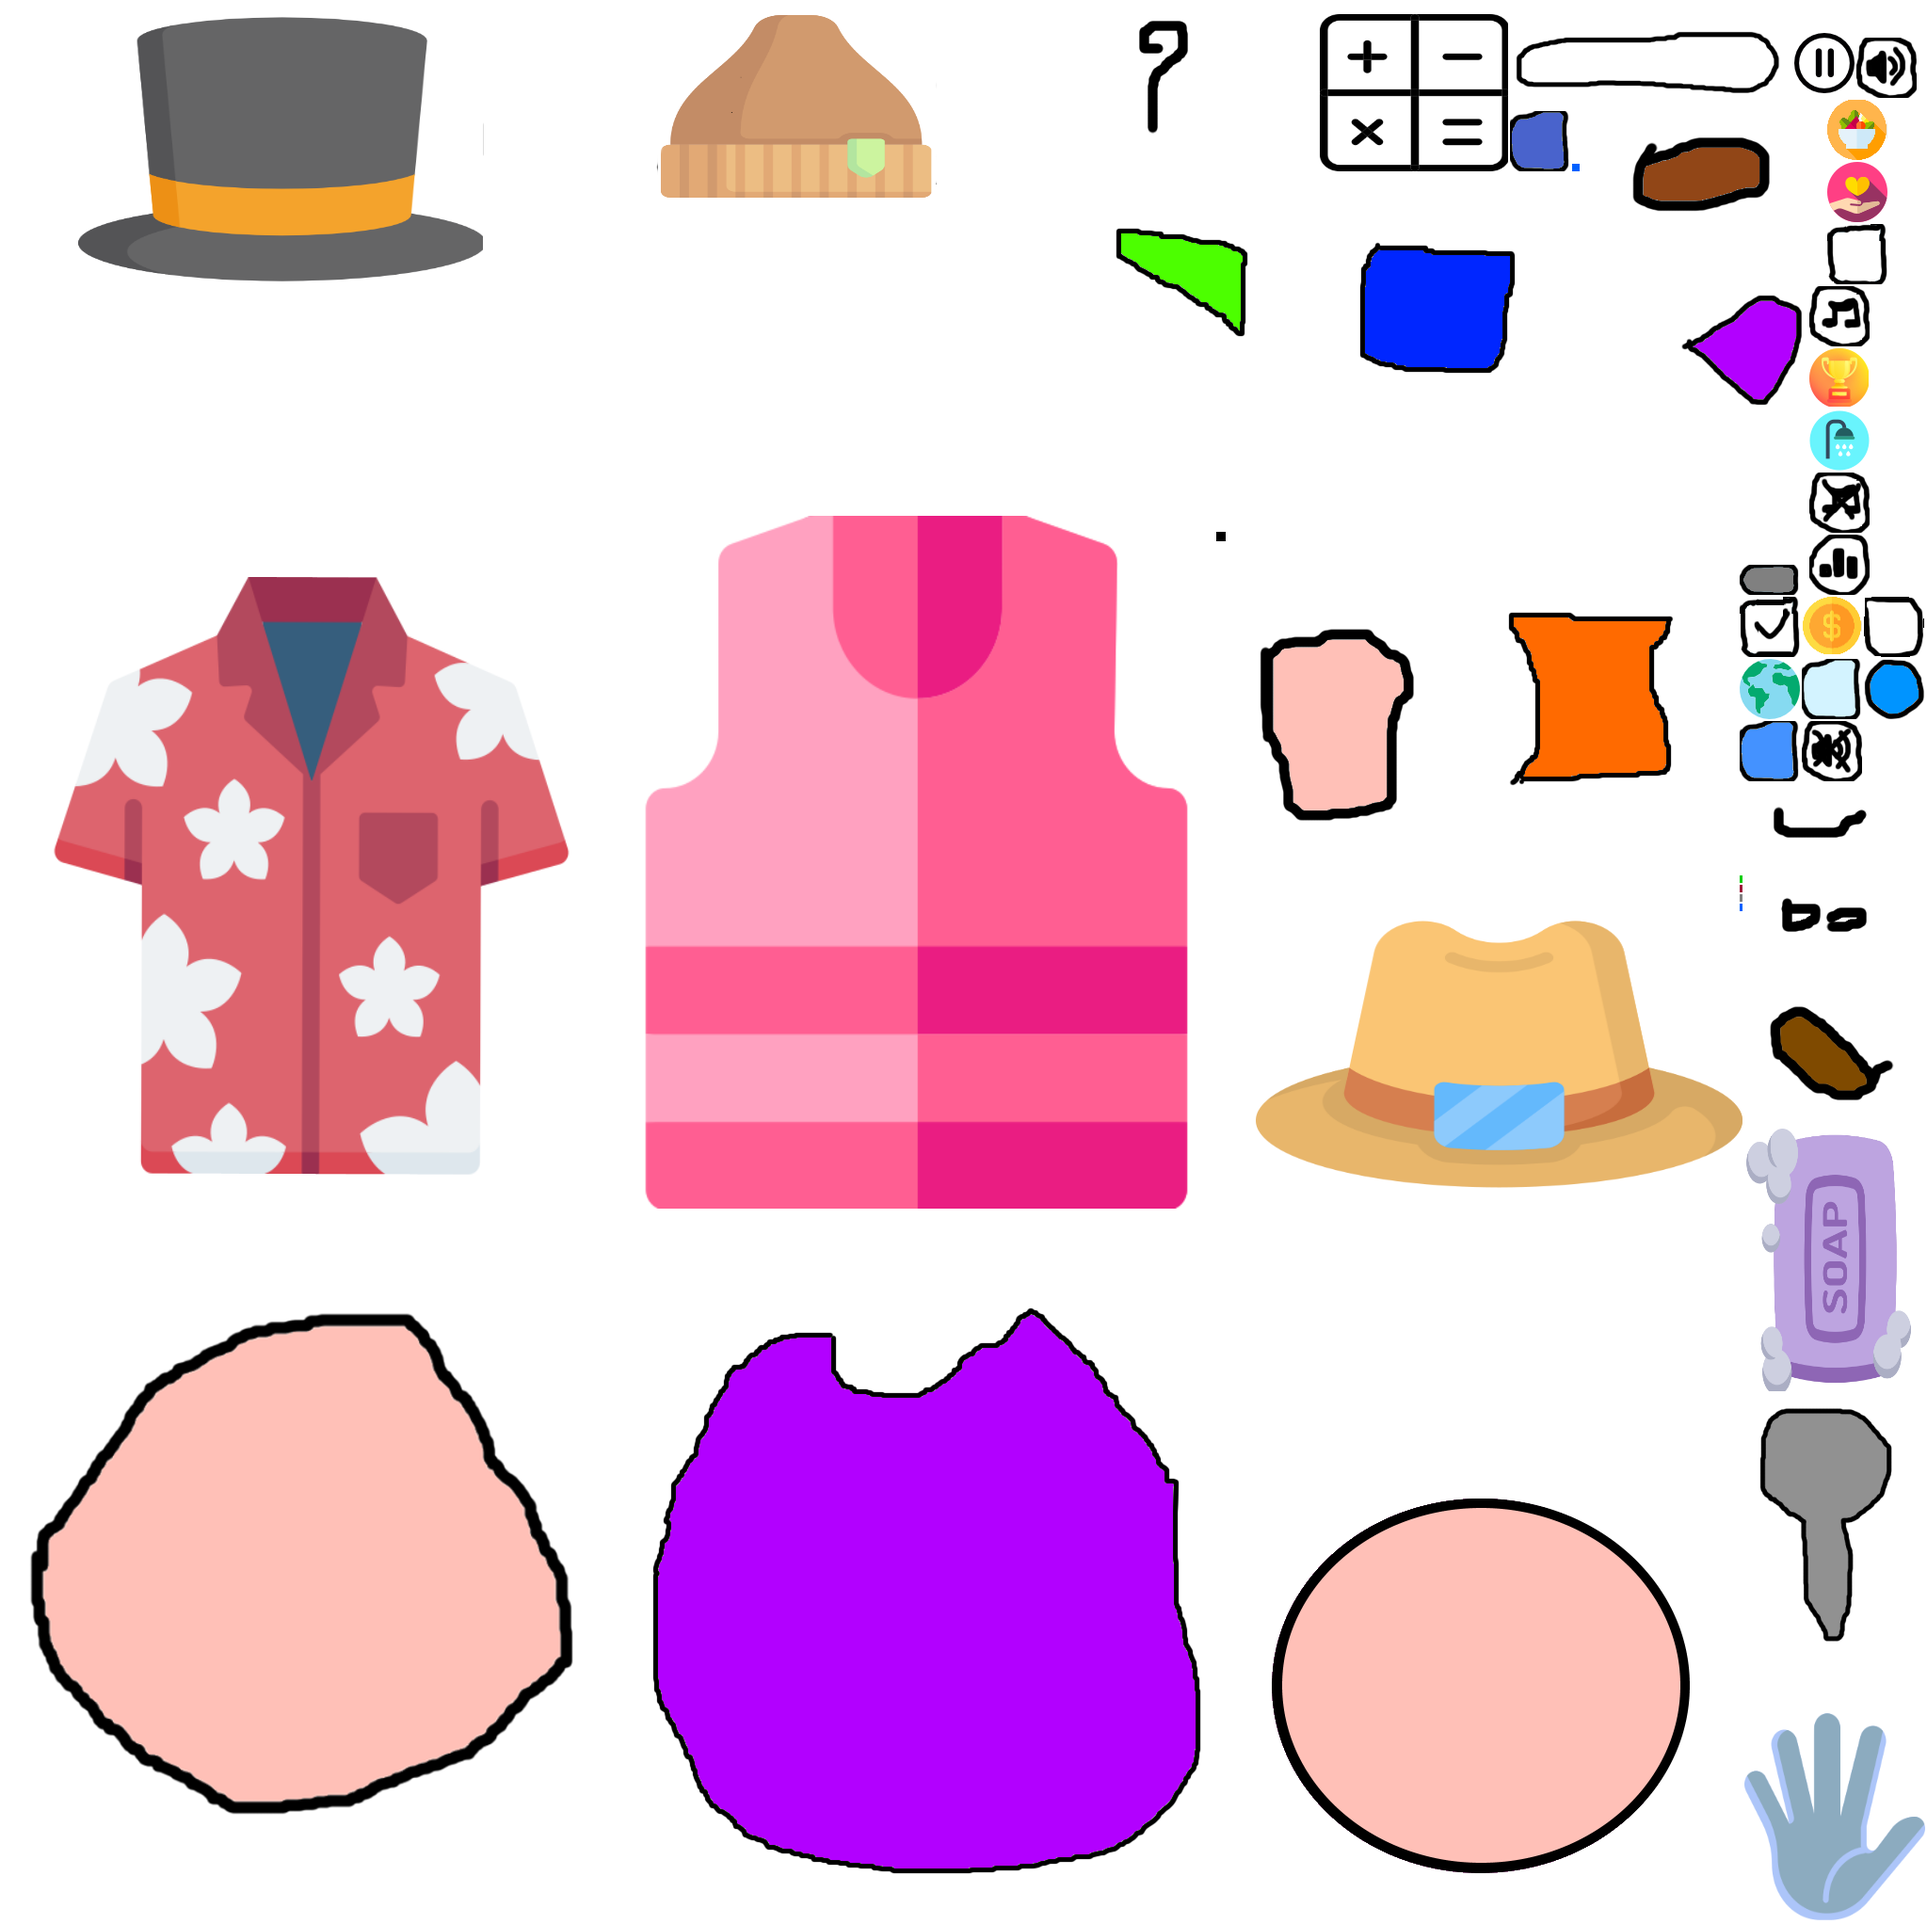
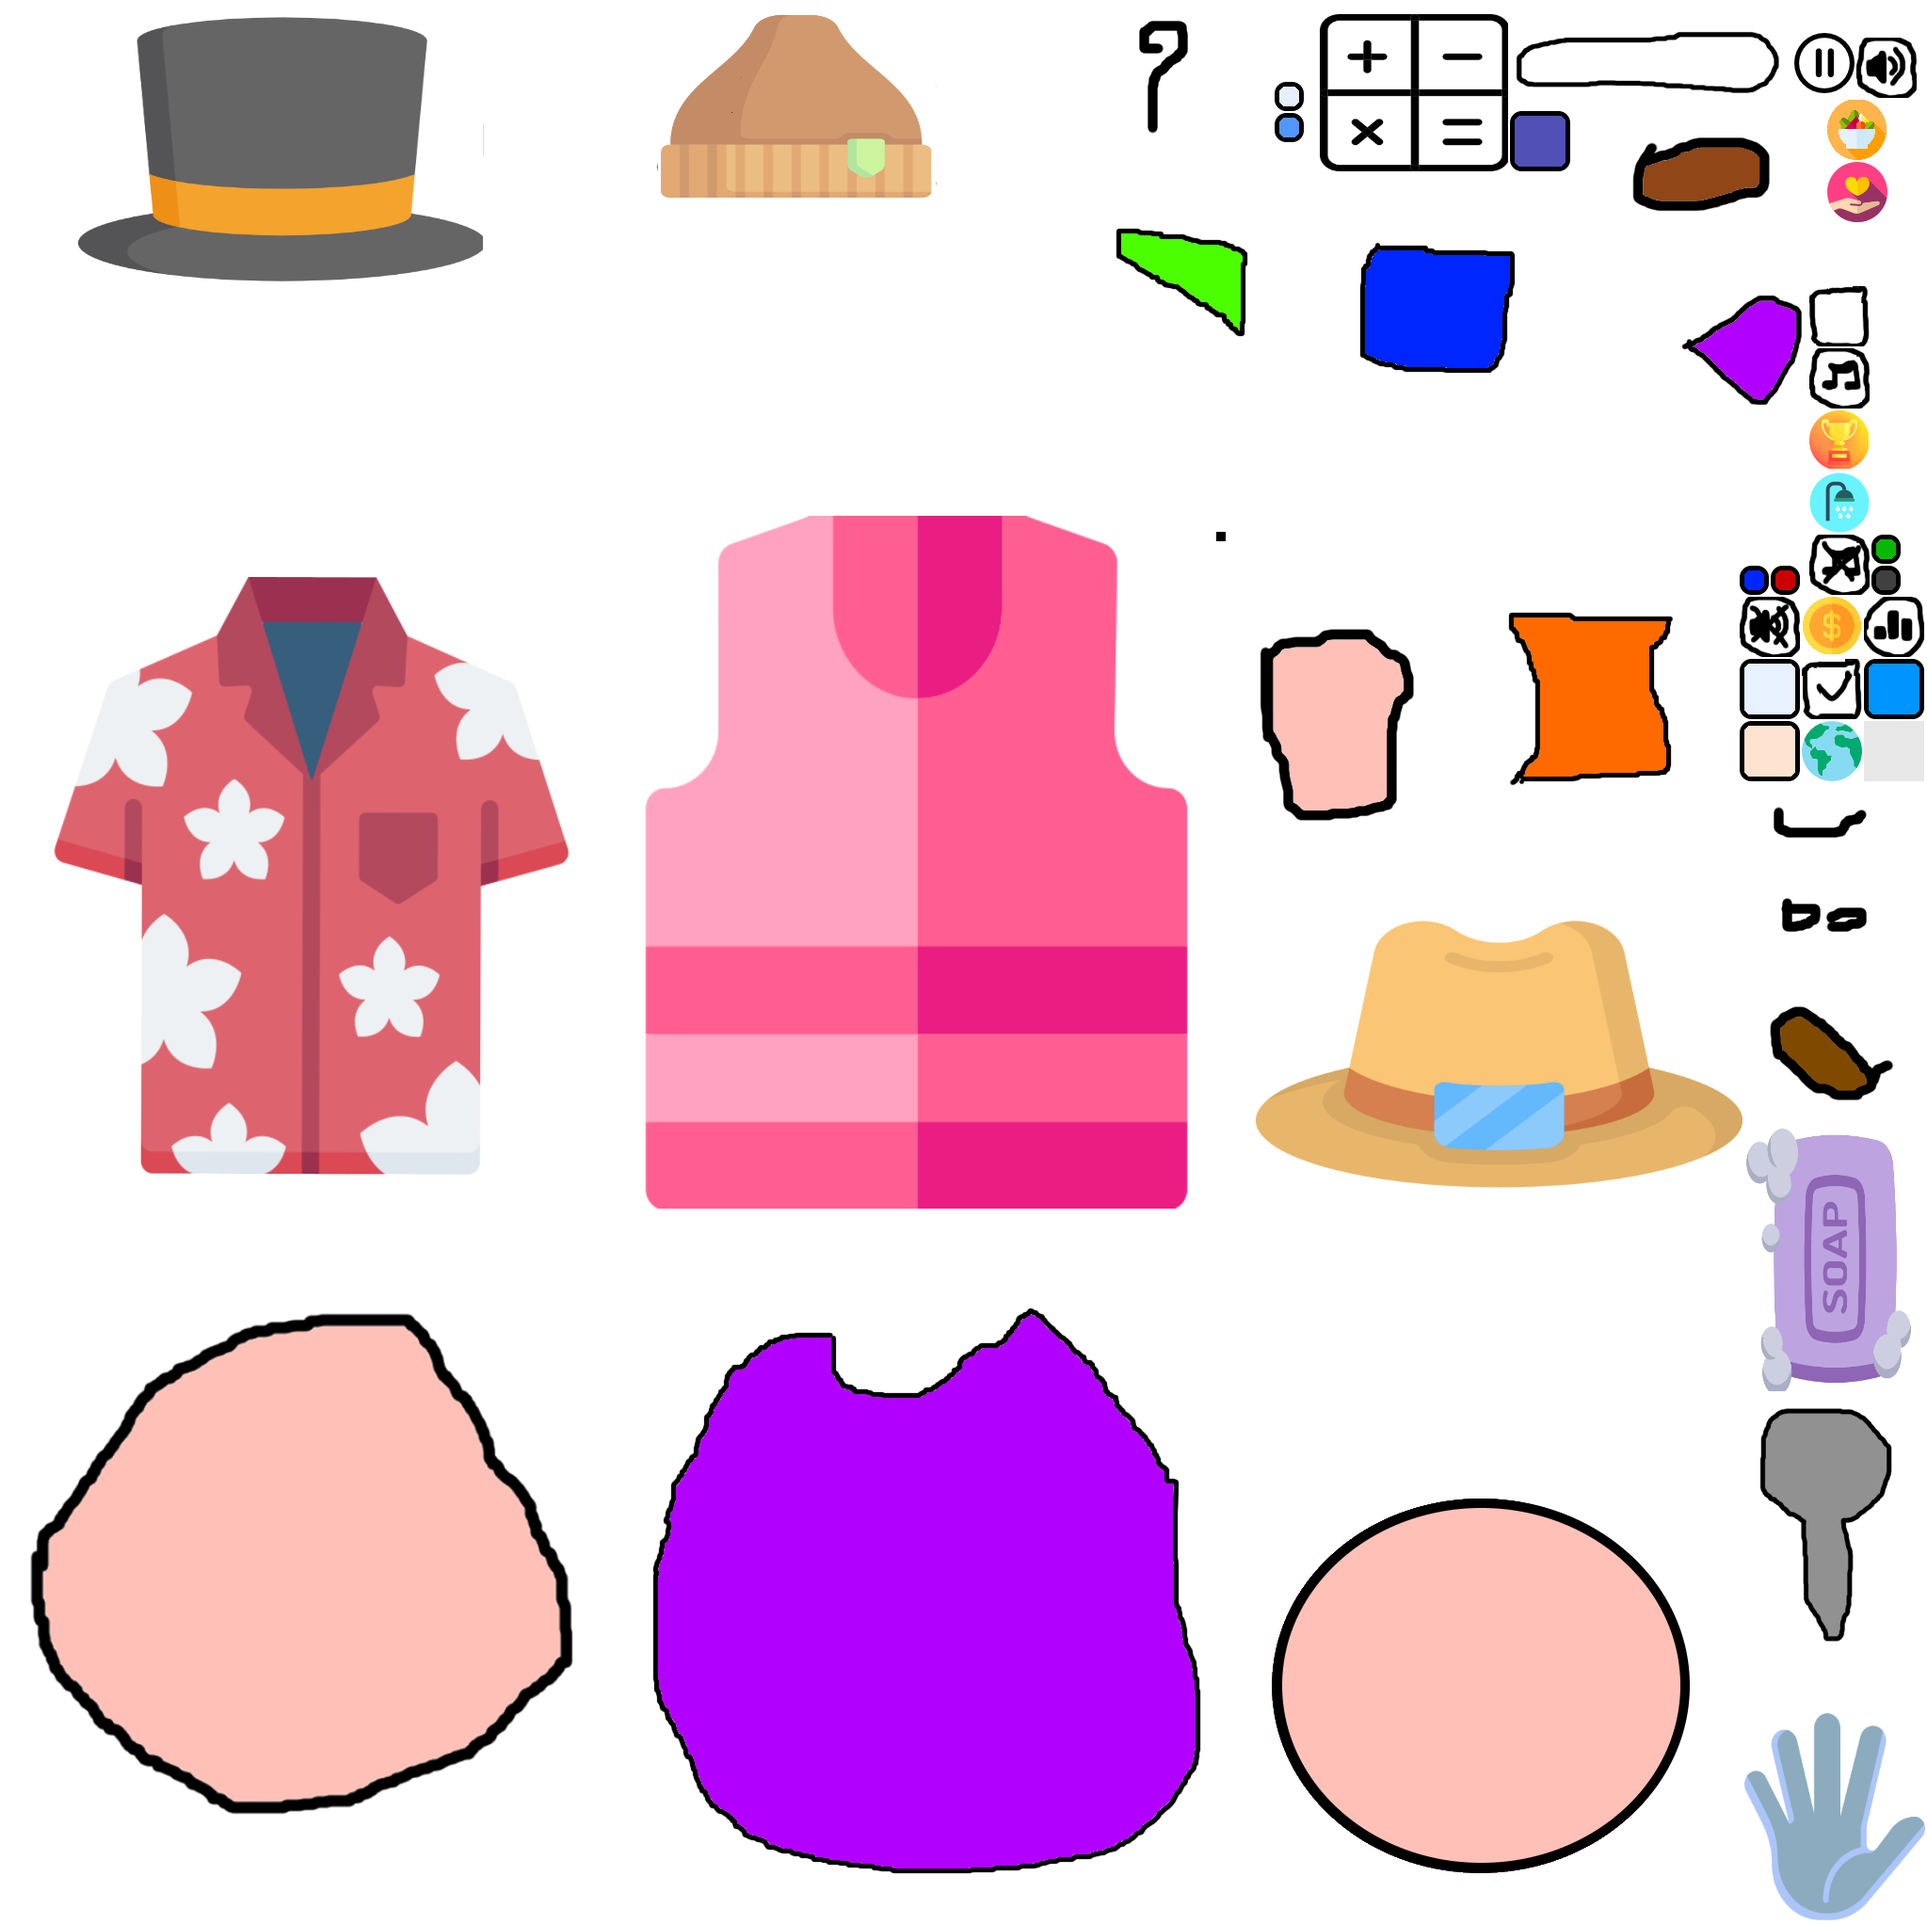
various fixes

Changed region(s): [[0.8925, 0.1233, 1.0, 0.4315], [0.6463, 0.0308, 0.6771, 0.0925], [0.8002, 0.0616, 0.831, 0.0925]]

diff --git a/core/src/com/healthypetsTUM/game/util/Values.java b/core/src/com/healthypetsTUM/game/util/Values.java
@@ -58,7 +58,6 @@ public class Values {
             MUSIC_ON = "musicIconOn", MUSIC_OFF = "musicIconOff",
             SOUNDS_ON = "soundsIconOn", SOUNDS_OFF = "soundsIconOff";
     public static final String FALLBACK_TEXTURE = "fallback_texture.jpg";
-    public static final String EXERCISE_BACKGROUND = "exercise_back";
 
     public static final String SLIDER_KNOB = "slider_knob", SLIDER_BAR = "slider_bar";
 
@@ -77,9 +76,9 @@ public class Values {
     public static final String HAND = "hand_pet", SHOWER = "shower_head",
             HEARTS = "hearts", SOAP = "soap", SOAP_BUBBLE = "soap_bubble",
             WATER_DROPS = "water_drops", CRUMBS = "crumbs";
-    public static final String FOOD_ICON = "_food";
+    public static final String FOOD_ITEM = "_food";
 
-    public static final int ITEM_COUNT = 9,
+    public static final int ITEM_COUNT = 9, FOOD_ITEM_COUNT = 6,
             WORLD_COUNT = 4,
             SHOP_ROW_AMOUNT = 3, WORLD_ROW_AMOUNT = 2;
     public static final String COIN = "coin",
@@ -157,7 +156,7 @@ public class Values {
             MUL_EXERCISE_FILE = "exercise_mul.txt",
             DIV_EXERCISE_FILE = "exercise_div.txt";
 
-    public static final String ANSWER_TEXT = "Answer: ",
+    public static final String ANSWER_TEXT = "Lösung: ",
             GAME_OVER = "GAME OVER",
             PAUSE = "PAUSE",
             SCORE = "Score: ",

diff --git a/core/src/com/healthypetsTUM/game/character/ui/FoodShopOverlay.java b/core/src/com/healthypetsTUM/game/character/ui/FoodShopOverlay.java
@@ -56,11 +56,11 @@ public class FoodShopOverlay extends Overlay {
     }
 
     private void createItems(AssetsManager assetsManager) {
-        itemLabels = new Label[Values.ITEM_COUNT];
-        coins = new Image[Values.ITEM_COUNT];
-        items = new Image[Values.ITEM_COUNT];
+        itemLabels = new Label[Values.FOOD_ITEM_COUNT];
+        coins = new Image[Values.FOOD_ITEM_COUNT];
+        items = new Image[Values.FOOD_ITEM_COUNT];
 
-        wholeTables = new Table[Values.ITEM_COUNT];
+        wholeTables = new Table[Values.FOOD_ITEM_COUNT];
 
         boughtBack = assetsManager.get9Drawable(Values.BOUGHT_BACK);
 
@@ -70,7 +70,7 @@ public class FoodShopOverlay extends Overlay {
             itemLabels[i] = new Label("1000", assetsManager.labelStyleSmall());
             itemLabels[i].setAlignment(Align.center);
 
-            items[i] = new Image(assetsManager.getDrawable(i+Values.SHOP_ITEM));
+            items[i] = new Image(assetsManager.getDrawable(i+Values.FOOD_ITEM));
             items[i].setScaling(Scaling.fillX);
 
             wholeTables[i] = new Table();

diff --git a/core/src/com/healthypetsTUM/game/game/math/MathControllerImpl.java b/core/src/com/healthypetsTUM/game/game/math/MathControllerImpl.java
@@ -76,7 +76,7 @@ public class MathControllerImpl implements MathController {
 
         timerTable = new Table();
         timerTable.setTouchable(Touchable.disabled);
-        timerTable.add(clockImg).left();
+        timerTable.add(clockImg).padRight(Values.PADDING).left();
         timerTable.add(timerLabel).left().row();
 
         // todo ui/viewport anpassen, dass bildschirm gefüllt wird
@@ -114,9 +114,9 @@ public class MathControllerImpl implements MathController {
         exerciseTable.add(timerTable).growX().left().pad(Values.EXERCISE_PADDING).row();
         exerciseTable.add(exerciseLabel).row();
         exerciseTable.add(answerLabel).growX().row();
-        exerciseTable.background(assetsManager.get9Drawable(Values.EXERCISE_BACKGROUND));
+        exerciseTable.background(assetsManager.get9Drawable(Values.MENU_BACK));
 
-        contentTable.add(exerciseTable).top().growX().pad(Values.EXERCISE_PADDING).row();
+        contentTable.add(exerciseTable).top().pad(Values.EXERCISE_PADDING).row();
     }
 
     public void addToStage(Stage s) {

diff --git a/core/src/com/healthypetsTUM/game/character/ui/SettingsOverlay.java b/core/src/com/healthypetsTUM/game/character/ui/SettingsOverlay.java
@@ -78,7 +78,6 @@ public class SettingsOverlay extends Overlay {
         soundButton.addListener(new ClickListener() {
             @Override
             public void clicked(InputEvent event, float x, float y) {
-                Sounds.click();
                 Sounds.mute(soundButton.isToggled());
                 if(!soundButton.isToggled()) Sounds.click();
             }

diff --git a/core/src/com/healthypetsTUM/game/character/ui/FoodItem.java b/core/src/com/healthypetsTUM/game/character/ui/FoodItem.java
@@ -25,7 +25,7 @@ public class FoodItem extends DragItem {
     private FoodItemListener listener;
 
     public FoodItem(AssetsManager assetsManager, FoodItemListener listener) {
-        super(assetsManager, 0+ Values.FOOD_ICON);
+        super(assetsManager, 0+ Values.FOOD_ITEM);
 
         this.listener = listener;
 
